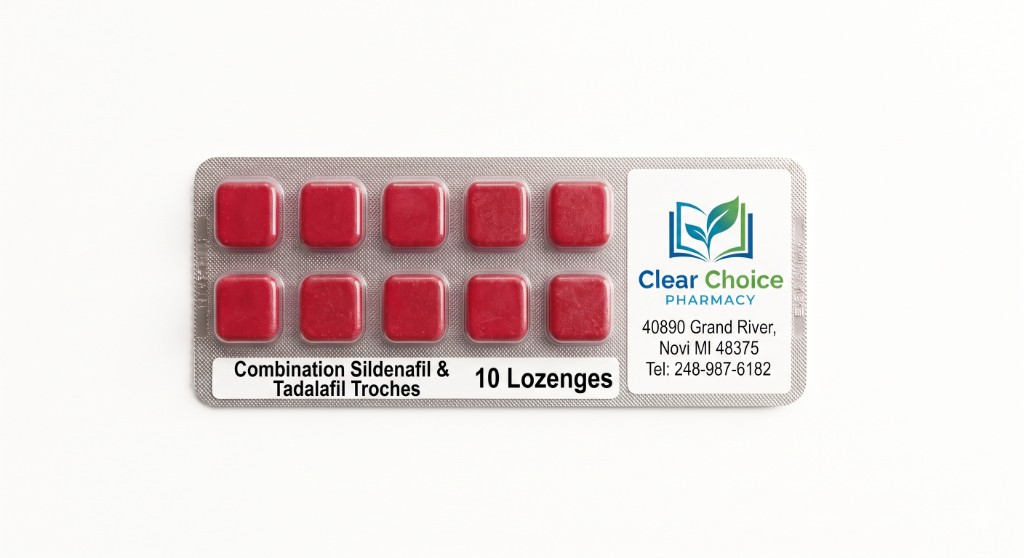
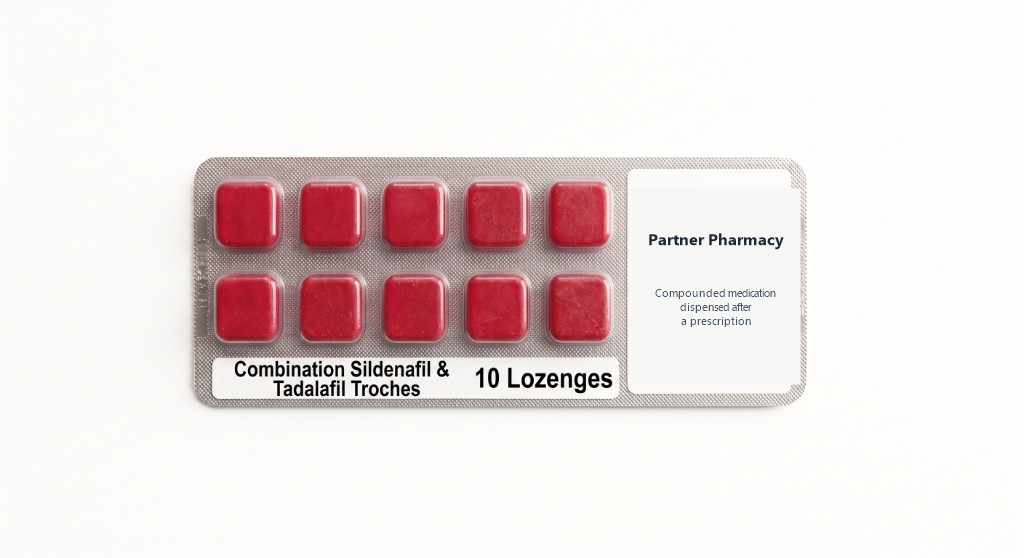
State that some states require a live video visit, and name a partner pharmacy on compounded ED labels.

Changed region(s): [[0.625, 0.3351, 0.7812, 0.7007]]

diff --git a/app/(home)/page.tsx b/app/(home)/page.tsx
@@ -42,8 +42,8 @@ export default function HomePage() {
               </span>
             </h1>
             <p className="text-base sm:text-lg text-slate-200 text-balance max-w-xl mb-6 sm:mb-8 leading-relaxed">
-              Provider-guided medical weight management with compounded semaglutide and tirzepatide after a licensed
-              doctor reviews your intake. RxAve routes an approved prescription to a licensed compounding pharmacy, which dispenses and ships approved medication. Individual results may
+              Provider-guided medical weight management with compounded semaglutide and tirzepatide. {LIVE_VIDEO_VISIT_NOTE}{" "}
+              RxAve routes an approved prescription to a licensed compounding pharmacy, which dispenses and ships approved medication. Individual results may
               vary.
             </p>
             <div className="flex flex-col sm:flex-row gap-3 sm:gap-4 w-full sm:w-auto max-w-md sm:max-w-none">
@@ -170,7 +170,7 @@ export default function HomePage() {
               <p className="text-muted-foreground leading-relaxed">
                 Patients across the United States can start provider-guided Semaglutide and
                 Tirzepatide weight management. {weightLossHowYouPay()} Ola Health reviews the intake before
-                any prescription is written. If treatment is approved, RxAve routes an approved prescription to a licensed compounding pharmacy, which dispenses and ships the
+                any prescription is written. {LIVE_VIDEO_VISIT_NOTE} If treatment is approved, RxAve routes an approved prescription to a licensed compounding pharmacy, which dispenses and ships the
                 medication.
               </p>
             </div>
@@ -179,8 +179,8 @@ export default function HomePage() {
               <Card className="p-5">
                 <h3 className="font-semibold mb-2">How the program works</h3>
                 <p className="text-sm text-muted-foreground mb-3">
-                  Choose a kit, complete a secure intake, and upload your photo ID. {weightLossHowYouPay()} A licensed
-                  doctor reviews your intake, usually within 24 hours. If approved, RxAve routes the prescription to a licensed compounding pharmacy, which ships your
+                  Choose a kit, complete a secure intake, and upload your photo ID. {weightLossHowYouPay()} {LIVE_VIDEO_VISIT_NOTE}{" "}
+                  If treatment is approved, RxAve routes the prescription to a licensed compounding pharmacy, which ships your
                   medication.
                 </p>
                 <Link href="/weight-loss#how-it-works" className="text-sm text-primary hover:underline">
@@ -286,7 +286,7 @@ export default function HomePage() {
               <div>
                 <h3 className="font-semibold text-lg mb-2">Who evaluates and who fills the medication?</h3>
                 <p className="text-muted-foreground text-sm leading-relaxed">
-                  Ola Health reviews your intake and decides whether a prescription is appropriate. RxAve routes an approved prescription to a licensed compounding pharmacy, which dispenses and ships approved semaglutide or tirzepatide. Clear Choice Pharmacy collects payment and does not
+                  Ola Health reviews your intake and decides whether a prescription is appropriate. {LIVE_VIDEO_VISIT_NOTE} RxAve routes an approved prescription to a licensed compounding pharmacy, which dispenses and ships approved semaglutide or tirzepatide. Clear Choice Pharmacy collects payment and does not
                   compound or dispense compounded medication. Other non-compounded prescriptions we fill are dispensed
                   from Westland to Michigan patients.{" "}
                   <Link href="/about" className="text-primary hover:underline">

diff --git a/app/weight-loss/page.tsx b/app/weight-loss/page.tsx
@@ -46,7 +46,7 @@ const PROGRAMS_URL = "/weight-loss#programs"
 export const metadata: Metadata = {
   title: { absolute: "Semaglutide & Tirzepatide Weight Loss | Clear Choice Pharmacy" },
   description:
-    `Provider-guided Semaglutide and Tirzepatide weight management. ${weightLossHowYouPay()} A doctor reviews your intake, and a licensed compounding pharmacy ships the medication after RxAve routes the prescription if treatment is approved.`,
+    `Provider-guided Semaglutide and Tirzepatide weight management. ${weightLossHowYouPay()} ${WEIGHT_LOSS_DOCTOR_REVIEW} ${WEIGHT_LOSS_PARTNER_FULFILLMENT}`,
   alternates: {
     canonical: `${SITE_URL}/weight-loss`,
   },
@@ -62,7 +62,7 @@ export const metadata: Metadata = {
 const glpBenefits = [
   "Custom titration: Semaglutide and Tirzepatide doses chosen to match the doctor's plan.",
   `Transparent pricing: ${weightLossHowYouPay()} Doctor review and partner-pharmacy shipping are included.`,
-  "Licensed doctor review: Complete a secure online intake. A doctor usually reviews it within 24 hours.",
+  `Licensed doctor review: Complete a secure online intake. ${LIVE_VIDEO_VISIT_NOTE}`,
   "Structured Support: Provider-guided weight management designed to support healthy habits alongside medication when appropriate.",
 ]
 
@@ -103,9 +103,9 @@ export default function WeightLossPage() {
         }
         subheadline="Provider-guided Semaglutide and Tirzepatide kits from $134/mo."
         description={
-          `${weightLossHowYouPay()} A licensed doctor reviews your intake, usually within 24 hours. If treatment is approved, RxAve routes an approved prescription to a licensed compounding pharmacy, which dispenses and ships your medication. Individual results may vary.`
+          `${weightLossHowYouPay()} ${WEIGHT_LOSS_DOCTOR_REVIEW} ${WEIGHT_LOSS_PARTNER_FULFILLMENT} Individual results may vary.`
         }
-        highlight={`${weightLossHowYouPay()} Doctor review within 24 hours. Partner pharmacy ships.`}
+        highlight={`${weightLossHowYouPay()} A live video visit is required in some states. Partner pharmacy ships.`}
         heroImage={{
           src: "/images/home-hero-clinical.png",
           alt: "Licensed clinician supporting medical weight management at Clear Choice Pharmacy",
@@ -126,9 +126,8 @@ export default function WeightLossPage() {
         />
         <div className="mt-6 prose prose-sm max-w-3xl text-muted-foreground">
           <p>
-            At Clear Choice Pharmacy, the pathway starts with an online intake. {weightLossHowYouPay()} A licensed
-            doctor reviews your information and decides whether a prescription is appropriate. If approved, a partner
-            pharmacy fills and ships Semaglutide or Tirzepatide. Learn more about{" "}
+            At Clear Choice Pharmacy, the pathway starts with an online intake. {weightLossHowYouPay()}{" "}
+            {WEIGHT_LOSS_DOCTOR_REVIEW} {WEIGHT_LOSS_PARTNER_FULFILLMENT} Learn more about{" "}
             <Link href="/weight-loss/glp-1" className="text-primary hover:underline">
               GLP-1 weight management
             </Link>

diff --git a/lib/trt-product-content.ts b/lib/trt-product-content.ts
@@ -1,4 +1,5 @@
 import type { TrtProgram } from "@/lib/trt-catalog"
+import { LIVE_VIDEO_VISIT_NOTE } from "@/lib/us-states"
 
 export type TrtProductContent = {
   homeKitTitle: string
@@ -36,7 +37,7 @@ export const TRT_PRODUCT_CONTENT: Record<string, TrtProductContent> = {
     monitoringNote:
       "Your provider may recommend periodic lab work to monitor testosterone, hematocrit, and related markers during therapy.",
     physicianConsent:
-      "Testosterone is a controlled substance. A licensed physician reviews your intake before prescribing. Additional labs or follow-up may be required.",
+      `Testosterone is a controlled substance. A licensed physician reviews your intake before prescribing. ${LIVE_VIDEO_VISIT_NOTE} Additional labs or follow-up may be required.`,
     shipping: "Routed by RxAve and shipped by a licensed compounding pharmacy. Refrigerate upon receipt. Clear Choice Pharmacy does not dispense compounded medication.",
   },
   "testosterone-cream": {
@@ -60,7 +61,7 @@ export const TRT_PRODUCT_CONTENT: Record<string, TrtProductContent> = {
     monitoringNote:
       "Topical protocols still require physician oversight and periodic labs to confirm therapeutic levels and safety.",
     physicianConsent:
-      "A licensed physician reviews your intake before prescribing. You may be contacted within 24–48 hours if additional clinical information is needed.",
+      `A licensed physician reviews your intake before prescribing. ${LIVE_VIDEO_VISIT_NOTE} You may be contacted if additional clinical information is needed.`,
     shipping: "Routed by RxAve and shipped discreetly by a licensed compounding pharmacy. Clear Choice Pharmacy does not dispense this medication.",
   },
   enclomiphene: {
@@ -83,7 +84,7 @@ export const TRT_PRODUCT_CONTENT: Record<string, TrtProductContent> = {
     monitoringNote:
       "Lab monitoring helps your provider titrate your oral protocol and confirm response over time.",
     physicianConsent:
-      "A licensed physician reviews your intake before prescribing. You may be contacted within 24–48 hours if additional clinical information is needed.",
+      `A licensed physician reviews your intake before prescribing. ${LIVE_VIDEO_VISIT_NOTE} You may be contacted if additional clinical information is needed.`,
     shipping: "Routed by RxAve and shipped discreetly by a licensed compounding pharmacy. Clear Choice Pharmacy does not dispense this medication.",
   },
 }

diff --git a/lib/learn-articles.ts b/lib/learn-articles.ts
@@ -1,11 +1,12 @@
 import type { LearnArticle } from "@/lib/learn-types"
 import { weightLossHowYouPay } from "@/lib/weight-loss-catalog"
+import { LIVE_VIDEO_VISIT_NOTE } from "@/lib/us-states"
 
 const MI_DISCLAIMER =
   "This article is for educational purposes only and is not medical advice. Compounded medications require a valid prescription after clinician review. Clear Choice Pharmacy currently serves Michigan patients only. Individual results vary. Discuss your health history with a licensed provider before starting any therapy."
 
 const GLP_DISCLAIMER =
-  "This article is for educational purposes only and is not medical advice. Compounded semaglutide and tirzepatide require a valid prescription after a licensed doctor reviews the intake. RxAve routes an approved prescription to a licensed compounding pharmacy, which dispenses and ships approved GLP-1 medication. Clear Choice Pharmacy does not compound or ship these vials. Individual results vary."
+  `This article is for educational purposes only and is not medical advice. Compounded semaglutide and tirzepatide require a valid prescription after a licensed doctor reviews the intake. ${LIVE_VIDEO_VISIT_NOTE} RxAve routes an approved prescription to a licensed compounding pharmacy, which dispenses and ships approved GLP-1 medication. Clear Choice Pharmacy does not compound or ship these vials. Individual results vary.`
 
 export const LEARN_ARTICLES: LearnArticle[] = [
   {
@@ -554,7 +555,7 @@ export const LEARN_ARTICLES: LearnArticle[] = [
       },
     ],
     disclaimer:
-      "This article is for educational purposes only and is not medical advice. Testosterone is a Schedule III controlled medication and requires a prescription after Ola Health reviews your intake. It is not offered for athletic performance or bodybuilding. RxAve routes an approved prescription to a licensed compounding pharmacy, which dispenses it. Individual results vary.",
+      `This article is for educational purposes only and is not medical advice. Testosterone is a Schedule III controlled medication and requires a prescription after Ola Health reviews your intake. ${LIVE_VIDEO_VISIT_NOTE} It is not offered for athletic performance or bodybuilding. RxAve routes an approved prescription to a licensed compounding pharmacy, which dispenses it. Individual results vary.`,
   },
   {
     slug: "myers-cocktail-mobile-iv",

diff --git a/lib/ed-product-content.ts b/lib/ed-product-content.ts
@@ -1,4 +1,5 @@
 import type { EdTrocheProduct } from "@/lib/ed-troche-catalog"
+import { LIVE_VIDEO_VISIT_NOTE } from "@/lib/us-states"
 
 export type EdProductContent = {
   homeKitTitle: string
@@ -37,7 +38,7 @@ export const ED_PRODUCT_CONTENT: Record<string, EdProductContent> = {
       ...SHARED_ED_KIT_INCLUDES,
     ],
     physicianConsent:
-      "A licensed physician reviews your intake before prescribing. You may be contacted within 24–48 hours if additional clinical information is needed.",
+      `A licensed physician reviews your intake before prescribing. ${LIVE_VIDEO_VISIT_NOTE} You may be contacted if additional clinical information is needed.`,
     shipping: "Routed by RxAve and shipped discreetly by a licensed compounding pharmacy. Clear Choice Pharmacy does not dispense this medication.",
   },
   "tadalafil-daily": {
@@ -58,7 +59,7 @@ export const ED_PRODUCT_CONTENT: Record<string, EdProductContent> = {
       ...SHARED_ED_KIT_INCLUDES,
     ],
     physicianConsent:
-      "A licensed physician reviews your intake before prescribing. You may be contacted within 24–48 hours if additional clinical information is needed.",
+      `A licensed physician reviews your intake before prescribing. ${LIVE_VIDEO_VISIT_NOTE} You may be contacted if additional clinical information is needed.`,
     shipping: "Routed by RxAve and shipped discreetly by a licensed compounding pharmacy. Clear Choice Pharmacy does not dispense this medication.",
   },
   "combination-troche": {
@@ -79,7 +80,7 @@ export const ED_PRODUCT_CONTENT: Record<string, EdProductContent> = {
       ...SHARED_ED_KIT_INCLUDES,
     ],
     physicianConsent:
-      "A licensed physician reviews your intake before prescribing. You may be contacted within 24–48 hours if additional clinical information is needed.",
+      `A licensed physician reviews your intake before prescribing. ${LIVE_VIDEO_VISIT_NOTE} You may be contacted if additional clinical information is needed.`,
     shipping: "Routed by RxAve and shipped discreetly by a licensed compounding pharmacy. Clear Choice Pharmacy does not dispense this medication.",
   },
 }

diff --git a/lib/weight-loss-product-content.ts b/lib/weight-loss-product-content.ts
@@ -1,4 +1,5 @@
 import type { WeightLossProgram } from "@/lib/weight-loss-catalog"
+import { LIVE_VIDEO_VISIT_NOTE } from "@/lib/us-states"
 
 export type WeightLossProductSlug = "semaglutide" | "tirzepatide"
 
@@ -71,7 +72,7 @@ export const WEIGHT_LOSS_PRODUCT_CONTENT: Record<WeightLossProductSlug, WeightLo
     shipping:
       "Shipped by a licensed compounding pharmacy, not from Clear Choice Pharmacy. RxAve routes the prescription. Refrigerate upon receipt. Your kit includes supplies and instructions for at-home use.",
     physicianConsent:
-      "A licensed physician reviews your intake before prescribing. You may be contacted within 24–48 hours if additional clinical information is needed.",
+      `A licensed physician reviews your intake before prescribing. ${LIVE_VIDEO_VISIT_NOTE} You may be contacted if additional clinical information is needed.`,
     scienceSummary:
       "Semaglutide is a GLP-1 receptor agonist that mimics an incretin hormone involved in appetite regulation and glucose homeostasis. It enhances glucose-dependent insulin secretion, suppresses glucagon, slows gastric emptying, and reduces food intake — supporting medical weight management under physician supervision.",
     kitIncludes: [
@@ -113,7 +114,7 @@ export const WEIGHT_LOSS_PRODUCT_CONTENT: Record<WeightLossProductSlug, WeightLo
     shipping:
       "Shipped by a licensed compounding pharmacy, not from Clear Choice Pharmacy. RxAve routes the prescription. Refrigerate upon receipt. Supplies and instructions included.",
     physicianConsent:
-      "A licensed physician reviews your intake before prescribing. You may be contacted within 24–48 hours if additional clinical information is needed.",
+      `A licensed physician reviews your intake before prescribing. ${LIVE_VIDEO_VISIT_NOTE} You may be contacted if additional clinical information is needed.`,
     scienceSummary:
       "Tirzepatide activates both GLP-1 and GIP receptors, offering dual incretin pathway support. Under physician supervision, it is used for medical weight management in qualifying patients.",
     kitIncludes: [

diff --git a/app/mens-health/page.tsx b/app/mens-health/page.tsx
@@ -16,6 +16,7 @@ import { Badge } from "@/components/ui/badge"
 import { Card } from "@/components/ui/card"
 import { Button } from "@/components/ui/button"
 import { CompoundedMedicationNotice } from "@/components/compounded-medication-notice"
+import { LIVE_VIDEO_VISIT_NOTE } from "@/lib/us-states"
 import { ServiceBuyButton } from "@/components/service-buy-button"
 import {
   SITE_URL,
@@ -86,7 +87,7 @@ export default function MensHealthPage() {
         badge="Men's Health · ED"
         headline="Tadalafil & Sildenafil"
         subheadline="Sildenafil from $39/mo and Tadalafil from $49/mo on quarterly billing—transparent cash-pay pricing."
-        description="Sildenafil and tadalafil after Ola Health reviews your intake. If approved, RxAve routes an approved prescription to a licensed compounding pharmacy, which dispenses and ships the medication."
+        description={`Sildenafil and tadalafil after Ola Health reviews your intake. ${LIVE_VIDEO_VISIT_NOTE} If approved, RxAve routes an approved prescription to a licensed compounding pharmacy, which dispenses and ships the medication.`}
         highlight="Start your intake · Provider review · Pharmacy-compounded · Discreet delivery"
         primaryCta={{
           label: "Start your intake",
@@ -203,7 +204,7 @@ export default function MensHealthPage() {
           {
             step: 2,
             title: "Clinician review",
-            description: "Ola Health reviews your intake and decides whether a prescription is appropriate.",
+            description: `Ola Health reviews your intake and decides whether a prescription is appropriate. ${LIVE_VIDEO_VISIT_NOTE}`,
           },
           {
             step: 3,

diff --git a/app/weight-loss/medications/page.tsx b/app/weight-loss/medications/page.tsx
@@ -15,6 +15,7 @@ import { Card } from "@/components/ui/card"
 import { SITE_URL, buildBreadcrumbJsonLd } from "@/lib/clinical-seo"
 import { formatUsd, getWeightLossPriceRange } from "@/lib/pricing-clarity"
 import { WEIGHT_LOSS_PROGRAMS } from "@/lib/weight-loss-catalog"
+import { LIVE_VIDEO_VISIT_NOTE } from "@/lib/us-states"
 
 export const metadata: Metadata = {
   title: { absolute: "Weight Loss Medications | Clear Choice Pharmacy" },
@@ -47,8 +48,8 @@ export default function WeightLossMedicationsPage() {
       <PremiumHero
         badge="Medication options"
         headline="Weight Loss Medications in Michigan"
-        subheadline="Semaglutide and tirzepatide, after a doctor reviews your intake."
-        description="RxAve routes the prescription to a licensed compounding pharmacy, which dispenses semaglutide and tirzepatide after a doctor approves treatment. Clear Choice Pharmacy does not compound or ship these vials."
+        subheadline="Semaglutide and tirzepatide. A live video visit is required in some states before a prescription."
+        description={`${LIVE_VIDEO_VISIT_NOTE} RxAve routes the prescription to a licensed compounding pharmacy, which dispenses semaglutide and tirzepatide after a doctor approves treatment. Clear Choice Pharmacy does not compound or ship these vials.`}
         highlight="Not a drug catalog search · Clinical evaluation required"
         primaryCta={{ label: "View Semaglutide kits", href: "/weight-loss/semaglutide" }}
         secondaryCta={{ label: "View Tirzepatide kits", href: "/weight-loss/tirzepatide" }}

diff --git a/lib/ed-troche-catalog.ts b/lib/ed-troche-catalog.ts
@@ -41,7 +41,7 @@ export const ED_FORMULATIONS: EdTrocheProduct[] = [
     features: ["Works in 15–30 minutes", "Lasts 4–6 hours", "Unaffected by food", "Take as needed"],
     image: {
       src: "/images/sildenafil-troches.png",
-      alt: "Clear Choice Pharmacy Sildenafil troches blister pack",
+      alt: "Sildenafil troches blister pack dispensed by a partner pharmacy",
     },
     pricing: [
       { plan: "monthly", pricePerMonth: 69, totalBilled: 69 },
@@ -61,7 +61,7 @@ export const ED_FORMULATIONS: EdTrocheProduct[] = [
     features: ["Up to 36-hour window", "Great for spontaneity", "Can take daily", "Unaffected by food"],
     image: {
       src: "/images/tadalafil-troches.png",
-      alt: "Clear Choice Pharmacy Tadalafil troches blister pack",
+      alt: "Tadalafil troches blister pack dispensed by a partner pharmacy",
     },
     pricing: [
       { plan: "monthly", pricePerMonth: 79, totalBilled: 79 },
@@ -81,7 +81,7 @@ export const ED_FORMULATIONS: EdTrocheProduct[] = [
     features: ["Fast onset + long duration", "Dual PDE5 action", "Physician-customized", "Pharmacy compounded"],
     image: {
       src: "/images/combination-troches.png",
-      alt: "Clear Choice Pharmacy combination Sildenafil and Tadalafil troches blister pack",
+      alt: "Sildenafil and Tadalafil combination troches blister pack dispensed by a partner pharmacy",
     },
     pricing: [
       { plan: "monthly", pricePerMonth: 89, totalBilled: 89 },

diff --git a/app/weight-loss/start/page.tsx b/app/weight-loss/start/page.tsx
@@ -21,7 +21,7 @@ import { SITE_URL } from "@/lib/site-config"
 export const metadata: Metadata = {
   title: "Start Your Intake | GLP Weight Loss | Clear Choice Pharmacy",
   description:
-    `Complete a secure medical intake for Semaglutide or Tirzepatide. ${weightLossHowYouPay()} A licensed doctor usually reviews your intake within 24 hours.`,
+    `Complete a secure medical intake for Semaglutide or Tirzepatide. ${weightLossHowYouPay()} ${WEIGHT_LOSS_DOCTOR_REVIEW}`,
   robots: { index: false, follow: false },
   alternates: {
     canonical: `${SITE_URL}/weight-loss/start`,
@@ -71,8 +71,8 @@ export default async function WeightLossStartPage({ searchParams }: PageProps) {
                   Complete Your GLP Order
                 </h1>
                 <p className="mt-4 text-lg text-muted-foreground">
-                  Finish your secure intake for Semaglutide or Tirzepatide. A licensed doctor usually reviews your
-                  intake within 24 hours, and a licensed compounding pharmacy ships the medication after RxAve routes the prescription approved medication.{" "}
+                  Finish your secure intake for Semaglutide or Tirzepatide. {WEIGHT_LOSS_DOCTOR_REVIEW}{" "}
+                  {WEIGHT_LOSS_PARTNER_FULFILLMENT}{" "}
                   {requireOnlinePayment ? WEIGHT_LOSS_INTAKE_HOLD_NOTE : weightLossPaymentPatientNote()}
                 </p>
               </div>

diff --git a/app/mens-health/trt/start/page.tsx b/app/mens-health/trt/start/page.tsx
@@ -5,6 +5,7 @@ import { SiteFooter } from "@/components/site-footer"
 import { Shield, Lock, Clock, Phone, Mail } from "lucide-react"
 import { TRT_PROGRAMS, type TrtBillingPlan } from "@/lib/trt-catalog"
 import { HORMONE_THERAPY_CONTROLLED_NOTE, NATIONAL_PARTNER_CARE_NOTE, SITE_URL } from "@/lib/site-config"
+import { LIVE_VIDEO_VISIT_NOTE } from "@/lib/us-states"
 
 export const metadata: Metadata = {
   title: "Start Your Intake | Hormone Therapy | Clear Choice Pharmacy",
@@ -63,7 +64,7 @@ export default async function TrtStartPage({ searchParams }: PageProps) {
                     {[
                       { icon: Shield, title: "HIPAA Compliant", description: "Protected by federal healthcare privacy laws" },
                       { icon: Lock, title: "256-bit Encryption", description: "Bank-level security for medical data" },
-                      { icon: Clock, title: "Review time", description: "Ola Health reviews your intake." },
+                      { icon: Clock, title: "Review time", description: `Ola Health reviews your intake. ${LIVE_VIDEO_VISIT_NOTE}` },
                     ].map((feature) => (
                       <div key={feature.title} className="flex items-start gap-3">
                         <div className="flex h-10 w-10 flex-shrink-0 items-center justify-center rounded-lg bg-primary/10">

diff --git a/app/mens-health/start/page.tsx b/app/mens-health/start/page.tsx
@@ -1,6 +1,7 @@
 import type { Metadata } from "next"
 import { ClinicalIntakeForm } from "@/components/clinical-intake-form"
 import { NATIONAL_PARTNER_CARE_NOTE, SITE_URL } from "@/lib/site-config"
+import { LIVE_VIDEO_VISIT_NOTE } from "@/lib/us-states"
 import { SiteHeader } from "@/components/site-header"
 import { SiteFooter } from "@/components/site-footer"
 import { Shield, Lock, Clock, Phone, Mail } from "lucide-react"
@@ -36,7 +37,7 @@ const trustFeatures = [
   {
     icon: Clock,
     title: "Review time",
-    description: "Ola Health reviews your intake.",
+    description: `Ola Health reviews your intake. ${LIVE_VIDEO_VISIT_NOTE}`,
   },
 ]
 
@@ -44,7 +45,7 @@ const processSteps = [
   "Review your selected troche formulation",
   "Complete the secure medical questionnaire",
   "Upload ID and authorize payment hold",
-  "Ola Health reviews your intake.",
+  `Ola Health reviews your intake. ${LIVE_VIDEO_VISIT_NOTE}`,
   "If approved, RxAve routes an approved prescription to a licensed compounding pharmacy, which dispenses and ships the medication.",
 ]
 
